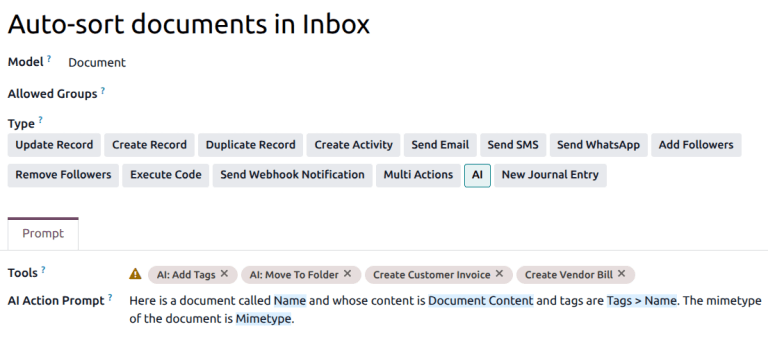
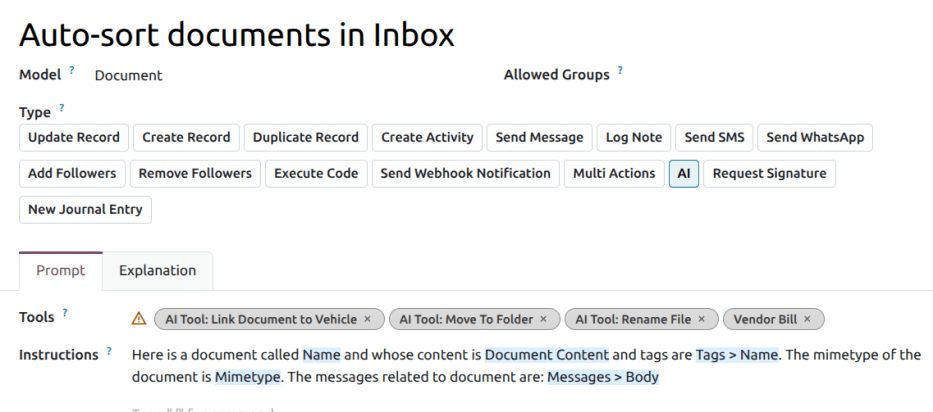
[IMP] AI: Server Actions rewrite
closes odoo/documentation#20894

diff --git a/content/applications/productivity/ai/server-actions.rst b/content/applications/productivity/ai/server-actions.rst
@@ -1,41 +1,91 @@
+.. meta::
+   :description: Use Odoo AI in automated workflows. Learn how to trigger AI agents automatically
+                 and how AI server actions evaluate records and select tools to execute, with a
+                 document sorting example and guidance on choosing the right approach.
+
 =================
 AI server actions
 =================
 
 .. |AI| replace:: :abbr:`AI (artificial intelligence)`
 
-|AI| server actions extend Odoo's automation framework by allowing artificial intelligence to make
-decisions during a workflow.
+Odoo |AI| can be used in automated workflows in two ways: an automated or scheduled action can
+trigger an |AI| agent to perform a task, or an AI server action can make decisions and select tools
+to execute within a workflow.
 
-They are designed for cases where logic cannot be expressed entirely through fixed conditions, but
-still requires controlled execution through standard server actions.
+These approaches serve different purposes:
+
+- *AI agent triggers*: Summon a configured :doc:`agent <agents>` to perform a task based on its
+  instructions, Skills, and Sources.
+- *AI server actions*: Use |AI| to interpret a prompt, evaluate a record, and select an appropriate
+  server action to execute.
+
+Trigger an AI agent
+-------------------
+
+An |AI| agent can be launched interactively by a user through an AI chat or triggered automatically
+as part of an Odoo workflow.
+
+To configure an automatic trigger, open the agent and navigate to the *Trigger* tab. Click
+:icon:`add` :guilabel:`Add`. On the *When should your agent be triggered?* pop-up, choose one of the
+following options:
+
+- *On a schedule*: Run the agent automatically according to a set frequency.
+- *Based on a Date Field*: Run the agent once per record when a specific date is reached.
+- *After creation*: Run the agent whenever a new record is created.
+- *After update*: Run the agent whenever a specified field is updated.
+
+Configure the additional options for the selected trigger, then save the agent.
+
+.. tip::
+   For long-running tasks, such as extensive web searches, use a scheduled trigger rather than an
+   immediate, event-driven trigger. This allows the task to run in the background instead of
+   blocking the user interface while the operation executes.
+
+When the trigger conditions are met, the agent executes the instructions using its configured
+Skills, Tools, and Sources.
+
+.. important::
+   Agents triggered automatically perform their tasks directly, without requesting user approval
+   before creating or updating records. Configure the agent's instructions and available tools
+   carefully, particularly when the workflow can modify important business data.
 
 How AI server actions work
 --------------------------
 
-AI-driven workflows in Odoo are built around a clear separation of responsibilities between the |AI|
-server action, or *the Manager*, and the tool, or *the Worker*.
+|AI| server actions extend Odoo's automation framework by allowing |AI| to make decisions during a
+workflow. They are useful when a task requires interpreting information or selecting an appropriate
+action, but the actual execution should remain controlled by standard server actions.
+
+AI-driven workflows use two components: *the Manager* and *the Worker*.
 
 AI server action: the manager
 ~~~~~~~~~~~~~~~~~~~~~~~~~~~~~
 
-An |AI| server action acts as a decision maker, or a manager. It reads the record and its context.
-It interprets the |AI| prompt. And it decides which tool to call, and what arguments to use.
+An |AI| server action acts as a decision-maker, or Manager. It:
 
-The server action does not enforce business rules, modify records directly, or guarantee the
-correctness of the operation. Its role is limited to decision-making.
+- Reads the record and its context.
+- Interprets the AI prompt.
+- Selects an appropriate tool.
+- Provides the arguments required by the selected tool.
+
+The Manager does not enforce business rules or execute the underlying operation itself. Its role is
+limited to deciding which tool to call and what arguments to provide.
 
 .. _ai/server-actions/tools:
 
 AI tool: the worker
 ~~~~~~~~~~~~~~~~~~~
 
-A tool is a standard server action with the *Use in AI* option enabled in its *Usage* tab. Tools
-contain all execution logic and perform record updates, moves, or writes. Tools **must** enforce
-business rules explicitly in Python code.
+A *Tool* is a standard server action configured for use by |AI|. To make a server action available
+as a tool, enable the *Use in AI* option in its *Usage* tab.
 
-If a tool is called by the |AI| server action, it will execute unconditionally, unless the code
-itself prevents it.
+Tools contain the execution logic and perform operations such as updating records, moving documents,
+or writing data.
+
+The tool must enforce any required business rules in its own execution logic. When called by the
+server action, it executes without requesting additional user approval, unless its code explicitly
+prevents the operation.
 
 AI server action workflow
 ~~~~~~~~~~~~~~~~~~~~~~~~~
@@ -43,26 +93,26 @@ AI server action workflow
 The |AI| server action workflow follows this sequence:
 
 #. A record triggers an |AI| server action.
-#. The |AI| prompt is evaluated, using the record as context.
-#. The |AI| selects one of the available tools.
-#. The |AI| provides arguments expected by the tool.
-#. The selected tool executes its Python code.
+#. The server action evaluates the prompt using the record as context.
+#. The server action selects an available tool.
+#. The server action supplies the arguments required by the tool.
+#. The tool executes its configured logic.
 
 .. important::
-   |AI| server actions work without custom logic only when the underlying behavior already exists in
-   Odoo, such as moving a document to a folder. In these cases, the |AI| selects parameters, and
-   Odoo executes the action.
+   |AI| server actions do not automatically enforce business rules or validate whether an operation
+   is appropriate. The server action must contain the necessary checks and safeguards. If a server
+   action is called, its execution logic runs unless the code itself prevents the operation.
 
-Use case walkthrough
---------------------
+Use case: Sort documents in the Inbox
+-------------------------------------
 
 The *Auto-sort documents in Inbox* example demonstrates the full |AI| Server Action pattern.
 Navigate to the *Server Actions* menu by going to :menuselection:`Settings --> Technical --> Server
-Actions`.
+Actions`. Then search for `Auto-sort documents in Inbox`.
 
 .. note::
-   This server action is designed to review documents for their content, and add tags. The action
-   itself does **not** move documents or add tags, it only decides which tool should be used, based
+   This server action is designed to review documents for their content and add tags. The action
+   itself does **not** move documents or add tags. It only decides which tool should be used, based
    on the documents' content.
 
    The :guilabel:`Model` for the action is listed as *Document*, and the :guilabel:`Type` is *AI*.
@@ -70,23 +120,23 @@ Actions`.
 .. image:: server-actions/ai-auto-sort.png
    :alt: The record for the Auto-sort documents in inbox server action.
 
-The prompt for this action provides context about the document, as well as intent of the action.
+The prompt for this action provides context about the document, as well as the intent of the action.
 
-The :guilabel:`Tool` field includes several actions that may be taken based on this prompt,
+The :guilabel:`Tools` field includes several actions that may be taken based on this prompt,
 including moving a document, adding tags, or creating invoices or bills.
 
 .. note::
-   *AI: Add Tags*, *AI: Move to Folder*, and *AI: Rename Document* are all *Execute Code* server
-   actions, meaning they trigger python code.
+   *AI Tool: Link Document to Vehicle*, *AI Tool: Move to Folder*, and *AI Tool: Rename File* are
+   all *Execute Code* server actions, meaning they trigger Python code.
 
 For example, if the action determines, based on the content of the document, that the most
-appropriate tool is *AI: Move to Folder*, the Python code performs the following operation:
+appropriate tool is *AI Tool: Move to Folder*, the Python code performs the following operation:
 
 .. code-block:: python
 
    ai['result'] = record._ai_action_move_in_folder(folder_id)
 
-This code, executes unconditionally when called and performs the move using an existing method.
+This code executes unconditionally when called and performs the move using an existing method.
 
 .. note::
    The |AI| does not infer arguments from the Python code or from the method signature. Instead,
@@ -104,9 +154,6 @@ This code, executes unconditionally when called and performs the move using an e
    If an argument is not defined in the Usage tab, the AI cannot provide it, even if the Python code
    references it.
 
-   .. image:: server-actions/ai-move-to-folder.png
-      :alt: The usage tab of the AI move to folder server action.
-
 Creating custom AI tools
 ------------------------
 
@@ -118,31 +165,33 @@ standard Odoo logic. For example, to create an action that can update a task des
 
     record.write({'description': content})
 
-To function correctly, `content` **must** be defined as an argument in tool's *Usage* tab.
+To make the action available to an AI server action:
+
+#. Open the server action's Usage tab.
+#. Enable *Use in AI*.
+#. Define an argument named `content` in the |AI| Schema.
+#. Provide a description explaining what content the server action should supply.
+#. Save the server action.
+
+Choose the right approach
+-------------------------
+
+Both |AI| agent triggers and |AI| server actions use |AI| in automated workflows, but the
+appropriate choice depends on the task.
+
+Use an |AI| agent trigger when:
+
+- The task requires a specialized agent with configured instructions, Skills, and Sources.
+- The agent needs to perform a flexible or multi-step task.
+- The task should run automatically or on a schedule.
+- The agent needs to evaluate information and determine how to complete a task.
+
+Use an |AI| server action when:
+
+- The task requires |AI| to interpret a prompt and select from a defined set of tools.
+- The operation has a specific execution method and defined arguments.
+- |AI| needs to make a decision within an existing server action workflow.
+- The execution logic should be handled by standard server actions or custom Python code.
 
 .. seealso::
    :ref:`Server Actions <reference/actions/server>`
-
-Common issues
--------------
-
-Why is the Tools field empty?
-~~~~~~~~~~~~~~~~~~~~~~~~~~~~~
-
-- Confirm that at least one server action has :guilabel:`Use in AI` enabled.
-- Confirm that at least one tool is assigned to the same model :guilabel:`Model` as the server
-  action.
-
-Why did the tool run but nothing happened?
-~~~~~~~~~~~~~~~~~~~~~~~~~~~~~~~~~~~~~~~~~~
-
-- The Python code exited without changes.
-- Required arguments were missing or empty.
-- Business conditions were not implemented in the tool logic.
-
-Why did the AI choose an unexpected tool?
-~~~~~~~~~~~~~~~~~~~~~~~~~~~~~~~~~~~~~~~~~
-
-- The prompt lacked sufficient context.
-- Multiple tools matched the same intent.
-- No constraints were enforced at the tool level.
